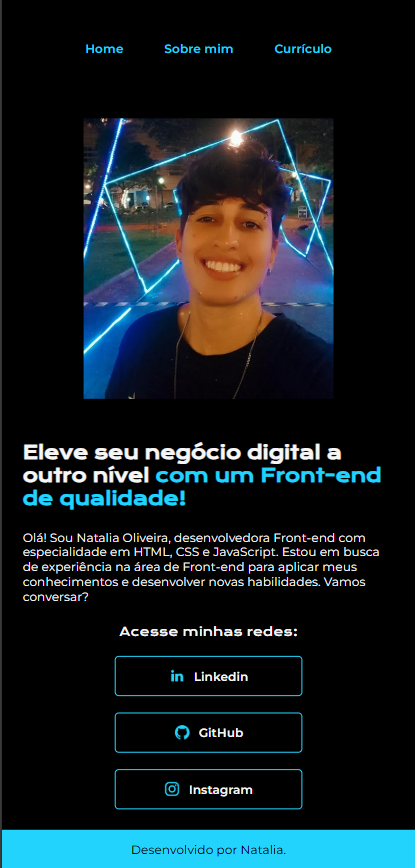
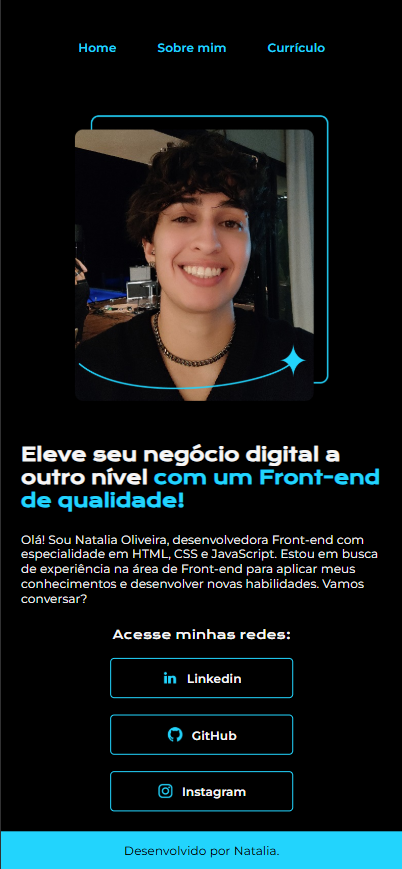
Atualização de fotos

diff --git a/about.html b/about.html
@@ -22,7 +22,7 @@
             <p class="apresentacao__conteudo__texto">Meu nome é Natalia, tenho 29 anos e sou formada em Ciência da Computação. No momento estou iniciando minha jornada na área de desenvolvimento web. Embora ainda não tenha experiência profissional na área, estou dedicando meu tempo aos estudos para adquirir as habilidades e conhecimentos necessários para conquistar minha primeira oportunidade. Minha principal motivação é crescer como desenvolvedora e construir uma base sólida para minha carreira, sempre buscando aprendizado contínuo.</p>
             <p class="apresentacao__conteudo__texto">Atualmente, estou focada no estudo de tecnologias fundamentais para o desenvolvimento web, como HTML, CSS e JavaScript, além de aprofundar meus conhecimentos em Node.js e Vue.js. Meu objetivo é me tornar uma profissional qualificada e preparada para os desafios do mercado, aplicando boas práticas de desenvolvimento e construindo projetos que me permitam evoluir constantemente.</p>
         </section>
-        <img src="./assets/foto.jpg" class="apresentacao__imagem" alt="Foto Natalia">
+        <img src="./assets/Imagem.png" class="apresentacao__imagem" alt="Foto Natalia">
     </main>
     
     <footer class="rodape">

diff --git a/curriculum.html b/curriculum.html
@@ -44,7 +44,7 @@
                 <li>Inglês - Pré-intermediário</li>
             </ul>
         </section>
-        <img src="./assets/foto.jpg" class="apresentacao__imagem" alt="Foto Natalia">
+        <img src="./assets/Imagem.png" class="apresentacao__imagem" alt="Foto Natalia">
     </main>
     
     <footer class="rodape">

diff --git a/index.html b/index.html
@@ -33,7 +33,7 @@
                     Instagram</a>
             </div>
         </section>
-        <img src="./assets/foto.jpg" class="apresentacao__imagem" alt="Foto Natalia">
+        <img src="./assets/Imagem.png" class="apresentacao__imagem" alt="Foto Natalia">
     </main>
 
     <footer class="rodape">
